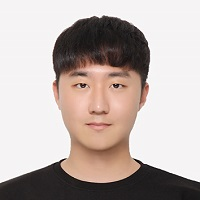
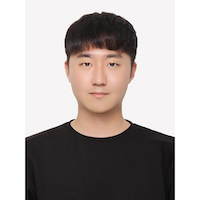
update group photo and member information

diff --git a/content/group/dhkim.md b/content/group/dhkim.md
@@ -1,0 +1,17 @@
++++
+title = "Donghyuk Kim"
+nickname = "dhkim"
+date = "2018-04-08T13:39:46+02:00"
+banner = "images/group/dhkim.jpg"
+email = ""
+job = "Undergraduate Researcher (2020.1 -)"
+phone = "+82-2-2123-2579"
+room = "Science Hall #532"
+web = ""
+type = "group"
+weight = 6
++++
+
+#### Education
++ **B.S.** (expected in 2020) Department of Atmospheric Sciences, Yonsei University, Seoul, Korea
+

diff --git a/content/group/dhlee.md b/content/group/dhlee.md
@@ -1,0 +1,17 @@
++++
+title = "Donghyuk Lee"
+nickname = "dhlee"
+date = "2018-04-08T13:39:46+02:00"
+banner = "images/group/dhlee.png"
+email = ""
+job = "Undergraduate Researcher (2020.1 -)"
+phone = "+82-2-2123-2579"
+room = "Science Hall #532"
+web = ""
+type = "group"
+weight = 7
++++
+
+#### Education
++ **B.S.** (expected in 2020) Department of Physics, Konkuk University, Seoul, Korea
+

diff --git a/content/group/_index.md b/content/group/_index.md
@@ -6,6 +6,13 @@ type = "group"
 ## Group Photos
 <br>
 
+#### JAN 6th, 2020
+<div class='image'>
+<img src="/images/Group_photo_20200106.jpg" class="img-responsive; width:40%;" alt="">
+</div>
+<br>
+
+
 ##### DEC 26th, 2019
 <div class='image'>
 <img src="/images/Group_photo_20191226.jpeg" class="img-responsive; width:40%;" alt="">

diff --git a/content/group/ajincho.md b/content/group/ajincho.md
@@ -9,7 +9,7 @@ phone = "+82-2-2123-2579"
 room = "Science Hall #532"
 web = ""
 type = "group"
-weight = 2
+weight = 3
 +++
 
 #### Education

diff --git a/content/group/kyungminkwak.md b/content/group/kyungminkwak.md
@@ -9,7 +9,7 @@ phone = "+82-2-2123-2579"
 room = "Science Hall #532"
 web = ""
 type = "group"
-weight = 3
+weight = 4
 +++
 
 #### Education
